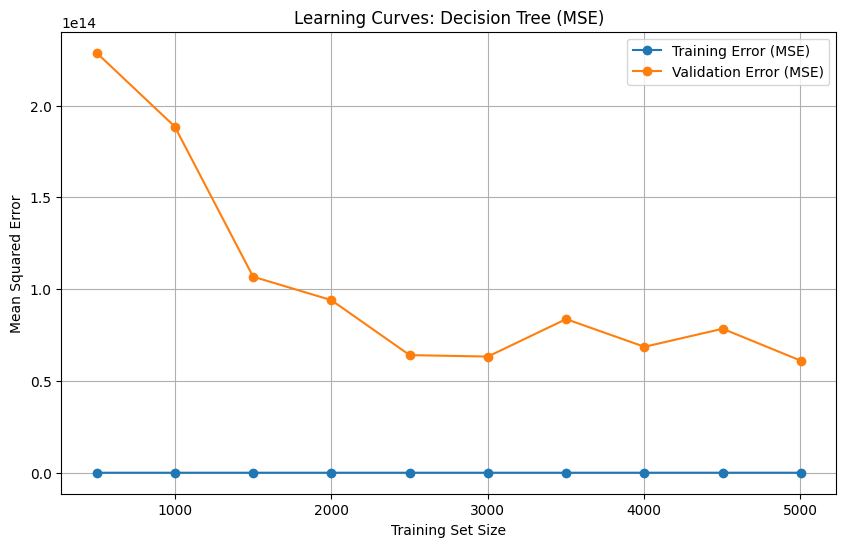
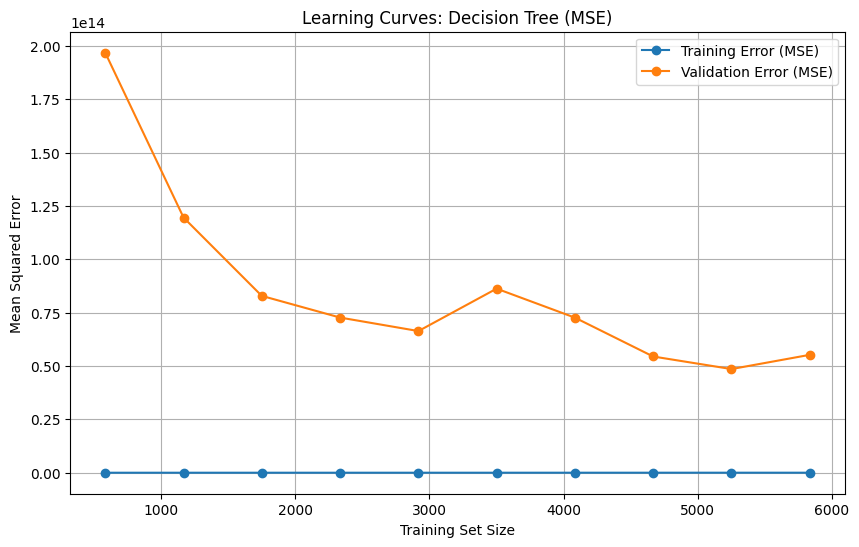
performance for best hyperparameter for undersampling

diff --git a/A4/Q4/1.py b/A4/Q4/1.py
@@ -1,14 +1,16 @@
 import pandas as pd
-from sklearn.model_selection import train_test_split
 from sklearn.tree import DecisionTreeRegressor
 from sklearn.metrics import r2_score, mean_squared_error, mean_absolute_error
-import matplotlib.pyplot as plt
 import os
 
 os.makedirs("Plots", exist_ok=True)
 
-train_data = pd.read_csv('../Q2/X_train_final_with_categories.csv')
-test_data = pd.read_csv('../Q2/X_test_final_with_categories.csv')
+# train_data = pd.read_csv('../Q2/X_train_final_with_categories.csv')
+# test_data = pd.read_csv('../Q2/X_test_final_with_categories.csv')
+train_data = pd.read_csv('../Q2/undersampled_train_data.csv')
+test_data = pd.read_csv('../Q2/undersampled_test_data.csv')
+# train_data = pd.read_csv('../Q2/oversampled_train_data.csv')
+# test_data = pd.read_csv('../Q2/oversampled_test_data.csv')
 
 X_train = train_data.drop(columns=['Price', 'Price_Category'])
 y_train = train_data['Price']
@@ -20,11 +22,11 @@ y_test = test_data['Price']
 # `ccp_alpha` = 31941543.737055868 is the best hyperparameter
 model = DecisionTreeRegressor(
     random_state=42,
-    max_depth=None,
+    max_depth=10,
     max_features=None,
-    min_samples_leaf=1,
-    min_samples_split=2,
-    ccp_alpha=31941543.737055868
+    min_samples_leaf=2,
+    min_samples_split=5,
+    ccp_alpha=90998981.82955986
 )
 model.fit(X_train, y_train)
 
